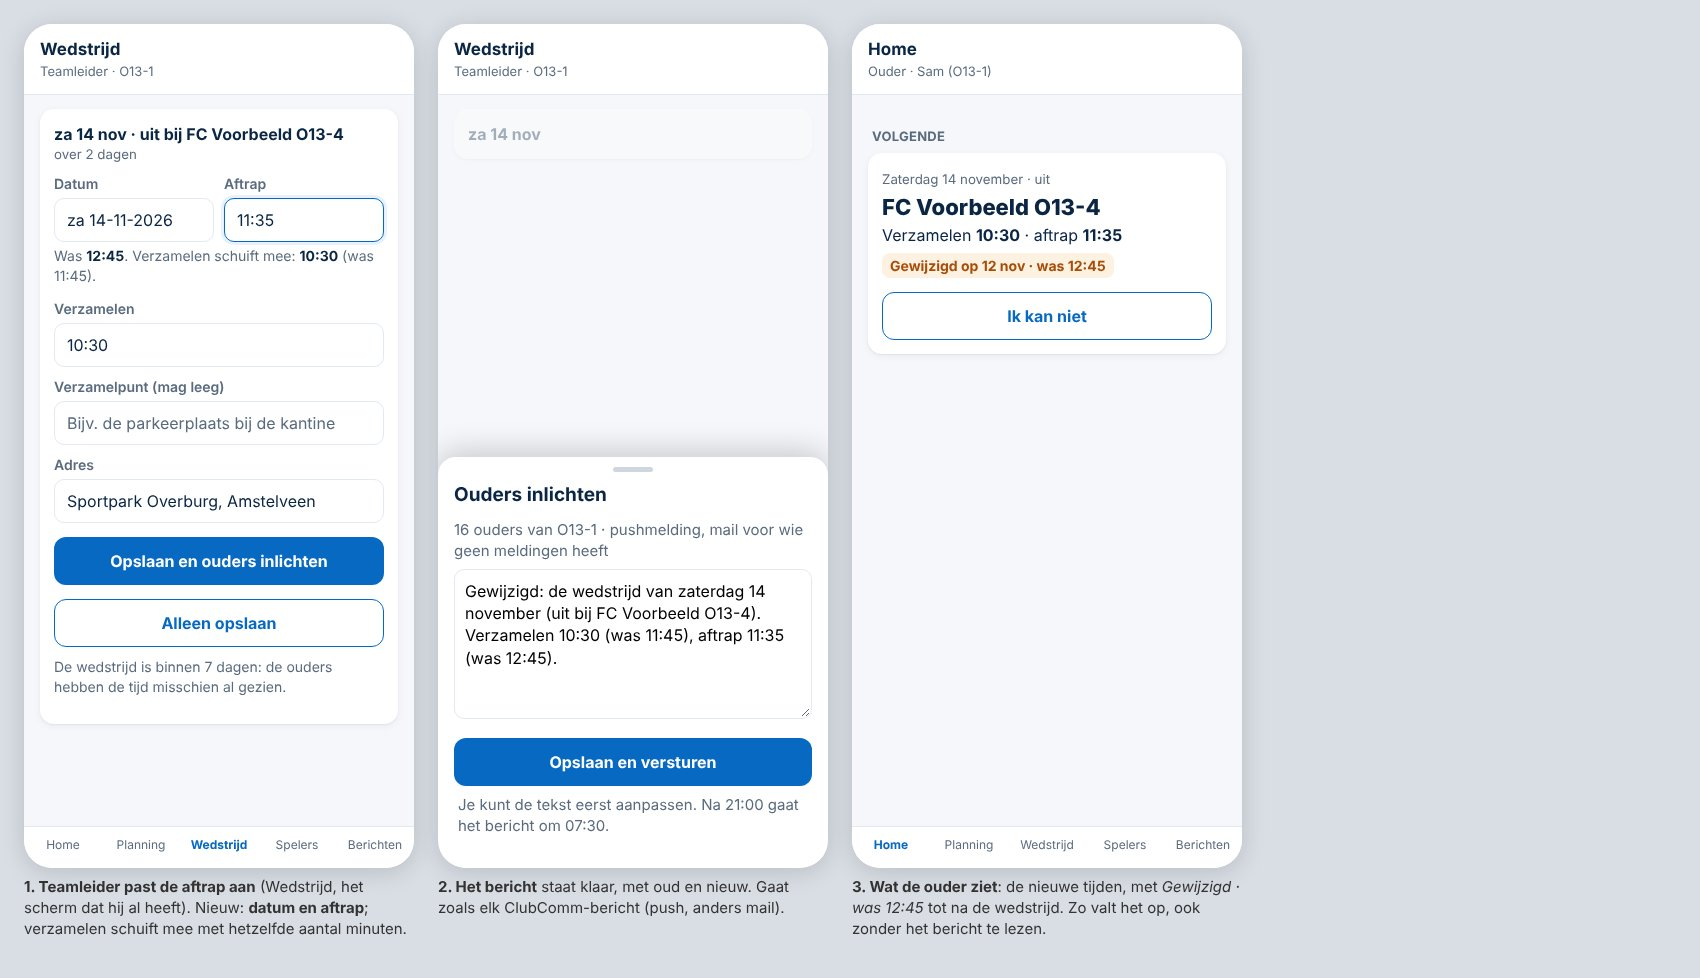
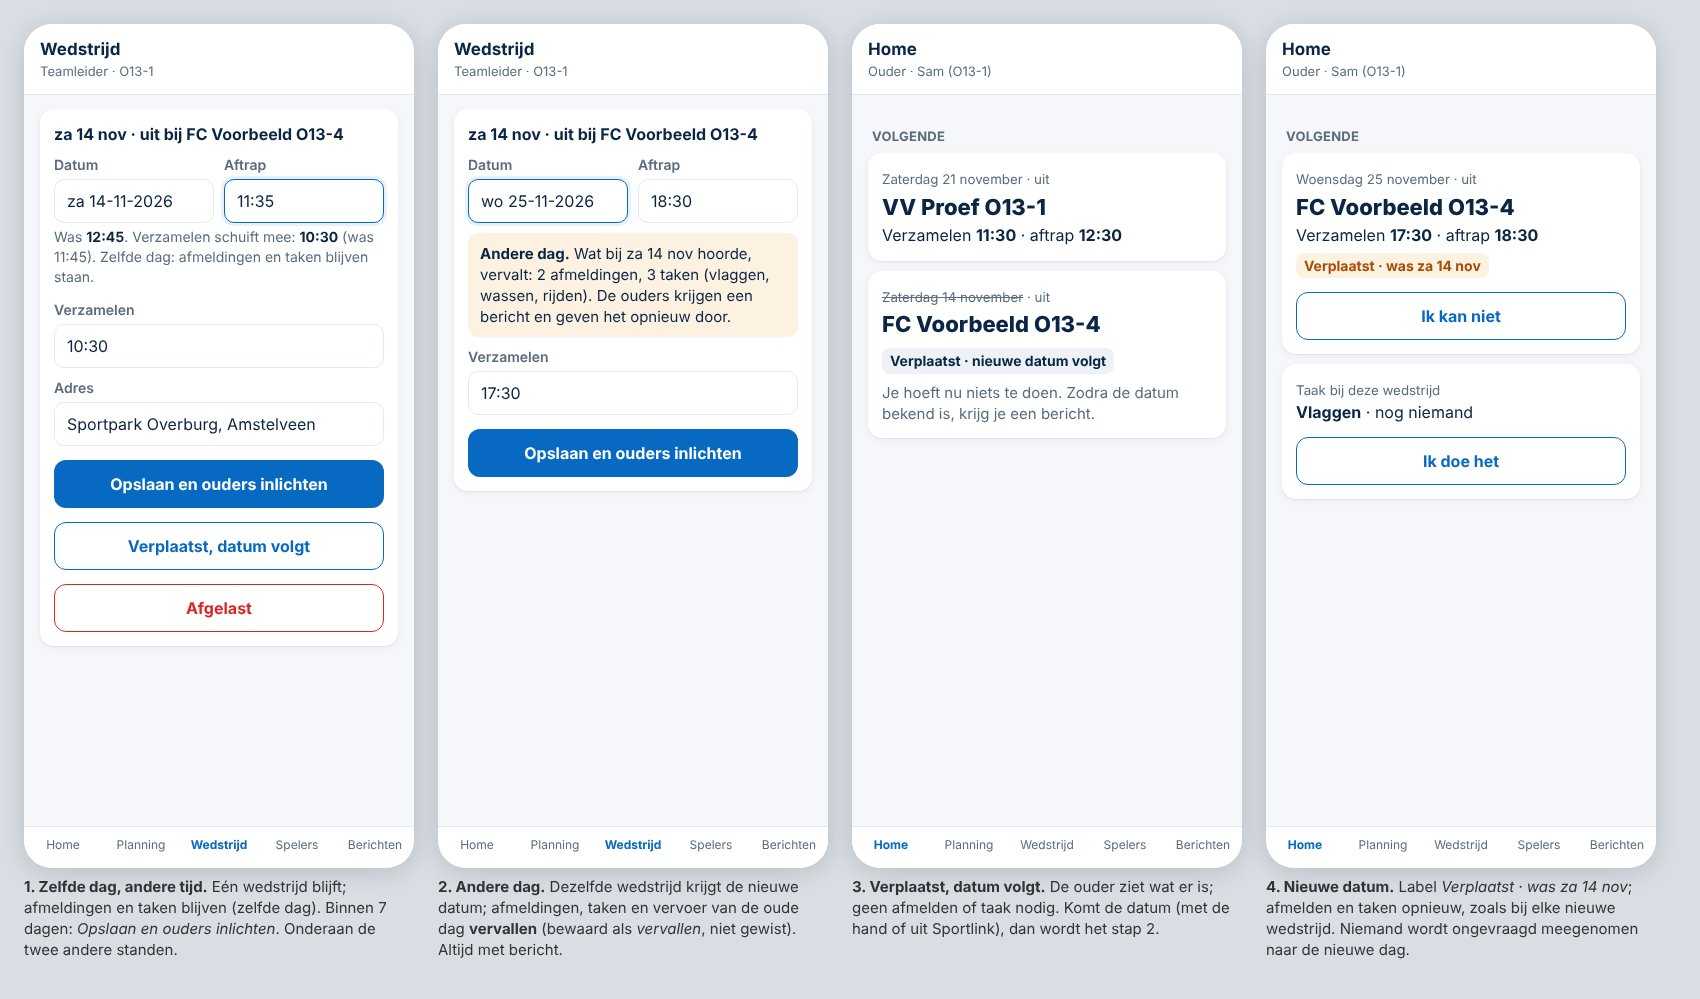
Voorstel D versie 3: één wedstrijd met drie standen (zelfde dag, andere dag/datum volgt, afgelast); gevonden gat in Aanpassen via Teams; stap 1 = maat L
Claude-Session: https://claude.ai/code/session_01JemqRo5kiX7AhhtzuggotQ

diff --git a/docs/onderzoek/sportlink-agenda/voorbeeld-stap1.html b/docs/onderzoek/sportlink-agenda/voorbeeld-stap1.html
@@ -1,6 +1,6 @@
 <!doctype html>
 <html lang="nl"><head><meta charset="utf-8"><meta name="viewport" content="width=device-width, initial-scale=1">
-<title>Voorbeeld: aftrap aanpassen door de teamleider</title>
+<title>Voorbeeld: wedstrijd verplaatsen en afgelasten (stap 1)</title>
 <style>
 /* Voorstel D: voorbeeld in de huidige stijl van de app; verzonnen club en namen */
 :root { --blauw: #0869c2; --blauw-l: #e7f2fe; --inkt: #0b2545; --zacht: #5b6b7f; --lijn: #e3e9f1; --grond: #f5f7fa; --groen: #137333; --groen-l: #e7f6ec; --rood: #dc2626; --oranje: #a84d08; }
@@ -65,43 +65,51 @@ h2 { font-size: 13px; letter-spacing: .02em; color: var(--zacht); margin: 18px 4
 .slot .tijd { text-align:center; font-size:64px; font-weight:300; } .slot .dag { text-align:center; opacity:.8; margin-bottom:30px; }
 .slot .melding { color:var(--inkt); }
 .linkje { color:var(--blauw); font-weight:600; font-size:15px; }
+.knop.rood { background:#fff; color:var(--rood); border:1.5px solid var(--rood); } .knoprij { display:grid; grid-template-columns:1fr 1fr; gap:8px; } .knoprij .knop { margin-top:8px; font-size:15px; }
+.info { background:#fdf1e1; border-radius:10px; padding:10px 12px; font-size:15px; margin-top:10px; } .doorstreep { text-decoration:line-through; color:var(--zacht); }
+.label2 { display:inline-block; margin-top:6px; font-size:14px; font-weight:700; color:var(--inkt); background:#eef2f6; border-radius:8px; padding:3px 8px; }
 </style></head><body>
 <div class="telefoons">
 <div><div class="tel">
   <div class="kop"><div><b>Wedstrijd</b><small>Teamleider · O13-1</small></div></div>
-  <div class="inhoud">
-    <div class="kaart form">
-      <div style="display:flex;gap:10px;align-items:center"><div><b>za 14 nov · uit bij FC Voorbeeld O13-4</b><small style="display:block;color:var(--zacht)">over 2 dagen</small></div></div>
-      <div class="twee"><div><label>Datum</label><div class="inp">za 14-11-2026</div></div><div><label>Aftrap</label><div class="inp aan">11:35</div></div></div>
-      <p class="hint">Was <b>12:45</b>. Verzamelen schuift mee: <b>10:30</b> (was 11:45).</p>
-      <label>Verzamelen</label><div class="inp">10:30</div>
-      <label>Verzamelpunt (mag leeg)</label><div class="inp" style="color:var(--zacht)">Bijv. de parkeerplaats bij de kantine</div>
-      <label>Adres</label><div class="inp">Sportpark Overburg, Amstelveen</div>
-      <div class="knop">Opslaan en ouders inlichten</div>
-      <div class="knop licht">Alleen opslaan</div>
-      <p class="hint" style="margin-top:10px">De wedstrijd is binnen 7 dagen: de ouders hebben de tijd misschien al gezien.</p>
-    </div>
-  </div><div class="nav"><span class="">Home</span><span class="">Planning</span><span class="aan">Wedstrijd</span><span class="">Spelers</span><span class="">Berichten</span></div>
-</div><p class="bijschrift"><b>1. Teamleider past de aftrap aan</b> (Wedstrijd, het scherm dat hij al heeft). Nieuw: <b>datum en aftrap</b>; verzamelen schuift mee met hetzelfde aantal minuten.</p></div><div><div class="tel">
+  <div class="inhoud"><div class="kaart form">
+    <b>za 14 nov · uit bij FC Voorbeeld O13-4</b>
+    <div class="twee"><div><label>Datum</label><div class="inp">za 14-11-2026</div></div><div><label>Aftrap</label><div class="inp aan">11:35</div></div></div>
+    <p class="hint">Was <b>12:45</b>. Verzamelen schuift mee: <b>10:30</b> (was 11:45). Zelfde dag: afmeldingen en taken blijven staan.</p>
+    <label>Verzamelen</label><div class="inp">10:30</div>
+    <label>Adres</label><div class="inp">Sportpark Overburg, Amstelveen</div>
+    <div class="knop">Opslaan en ouders inlichten</div>
+    <div class="knop licht">Verplaatst, datum volgt</div><div class="knop rood">Afgelast</div>
+  </div></div><div class="nav"><span class="">Home</span><span class="">Planning</span><span class="aan">Wedstrijd</span><span class="">Spelers</span><span class="">Berichten</span></div>
+</div><p class="bijschrift"><b>1. Zelfde dag, andere tijd.</b> Eén wedstrijd blijft; afmeldingen en taken blijven (zelfde dag). Binnen 7 dagen: <i>Opslaan en ouders inlichten</i>. Onderaan de twee andere standen.</p></div><div><div class="tel">
   <div class="kop"><div><b>Wedstrijd</b><small>Teamleider · O13-1</small></div></div>
-  <div class="inhoud" style="opacity:.35"><div class="kaart form"><b>za 14 nov</b></div></div>
-  <div class="sheet"><div class="greep"></div><h3>Ouders inlichten</h3>
-    <p class="uitleg" style="margin:0 0 8px">16 ouders van O13-1 · pushmelding, mail voor wie geen meldingen heeft</p>
-    <textarea>Gewijzigd: de wedstrijd van zaterdag 14 november (uit bij FC Voorbeeld O13-4).
-Verzamelen 10:30 (was 11:45), aftrap 11:35 (was 12:45).</textarea>
-    <div class="knop">Opslaan en versturen</div>
-    <p class="uitleg">Je kunt de tekst eerst aanpassen. Na 21:00 gaat het bericht om 07:30.</p>
-  </div>
-</div><p class="bijschrift"><b>2. Het bericht</b> staat klaar, met oud en nieuw. Gaat zoals elk ClubComm-bericht (push, anders mail).</p></div><div><div class="tel">
+  <div class="inhoud"><div class="kaart form">
+    <b>za 14 nov · uit bij FC Voorbeeld O13-4</b>
+    <div class="twee"><div><label>Datum</label><div class="inp aan">wo 25-11-2026</div></div><div><label>Aftrap</label><div class="inp">18:30</div></div></div>
+    <div class="info"><b>Andere dag.</b> Wat bij za 14 nov hoorde, vervalt: 2 afmeldingen, 3 taken (vlaggen, wassen, rijden). De ouders krijgen een bericht en geven het opnieuw door.</div>
+    <label>Verzamelen</label><div class="inp">17:30</div>
+    <div class="knop">Opslaan en ouders inlichten</div>
+  </div></div><div class="nav"><span class="">Home</span><span class="">Planning</span><span class="aan">Wedstrijd</span><span class="">Spelers</span><span class="">Berichten</span></div>
+</div><p class="bijschrift"><b>2. Andere dag.</b> Dezelfde wedstrijd krijgt de nieuwe datum; afmeldingen, taken en vervoer van de oude dag <b>vervallen</b> (bewaard als <i>vervallen</i>, niet gewist). Altijd met bericht.</p></div><div><div class="tel">
   <div class="kop"><div><b>Home</b><small>Ouder · Sam (O13-1)</small></div></div>
   <div class="inhoud">
     <h2>VOLGENDE</h2>
-    <div class="kaart" style="padding:14px"><small style="color:var(--zacht)">Zaterdag 14 november · uit</small>
+    <div class="kaart" style="padding:14px"><small style="color:var(--zacht)">Zaterdag 21 november · uit</small><div class="groot2">VV Proef O13-1</div><div>Verzamelen <b>11:30</b> · aftrap <b>12:30</b></div></div><div class="kaart" style="padding:14px;margin-top:10px"><small style="color:var(--zacht)"><span class="doorstreep">Zaterdag 14 november</span> · uit</small>
       <div class="groot2">FC Voorbeeld O13-4</div>
-      <div>Verzamelen <b>10:30</b> · aftrap <b>11:35</b></div>
-      <span class="gewijzigd">Gewijzigd op 12 nov · was 12:45</span>
-      <div class="knop licht">Ik kan niet</div>
+      <span class="label2">Verplaatst · nieuwe datum volgt</span>
+      <p class="uitleg" style="margin:8px 0 0">Je hoeft nu niets te doen. Zodra de datum bekend is, krijg je een bericht.</p>
     </div>
   </div><div class="nav"><span class="aan">Home</span><span class="">Planning</span><span class="">Wedstrijd</span><span class="">Spelers</span><span class="">Berichten</span></div>
-</div><p class="bijschrift"><b>3. Wat de ouder ziet</b>: de nieuwe tijden, met <i>Gewijzigd · was 12:45</i> tot na de wedstrijd. Zo valt het op, ook zonder het bericht te lezen.</p></div>
+</div><p class="bijschrift"><b>3. Verplaatst, datum volgt.</b> De ouder ziet wat er is; geen afmelden of taak nodig. Komt de datum (met de hand of uit Sportlink), dan wordt het stap 2.</p></div><div><div class="tel">
+  <div class="kop"><div><b>Home</b><small>Ouder · Sam (O13-1)</small></div></div>
+  <div class="inhoud">
+    <h2>VOLGENDE</h2>
+    <div class="kaart" style="padding:14px"><small style="color:var(--zacht)">Woensdag 25 november · uit</small>
+      <div class="groot2">FC Voorbeeld O13-4</div><div>Verzamelen <b>17:30</b> · aftrap <b>18:30</b></div>
+      <span class="gewijzigd">Verplaatst · was za 14 nov</span>
+      <div class="knop licht">Ik kan niet</div>
+    </div>
+    <div class="kaart" style="padding:14px;margin-top:10px"><small style="color:var(--zacht)">Taak bij deze wedstrijd</small><div><b>Vlaggen</b> · nog niemand</div><div class="knop licht">Ik doe het</div></div>
+  </div><div class="nav"><span class="aan">Home</span><span class="">Planning</span><span class="">Wedstrijd</span><span class="">Spelers</span><span class="">Berichten</span></div>
+</div><p class="bijschrift"><b>4. Nieuwe datum.</b> Label <i>Verplaatst · was za 14 nov</i>; afmelden en taken opnieuw, zoals bij elke nieuwe wedstrijd. Niemand wordt ongevraagd meegenomen naar de nieuwe dag.</p></div>
 </div></body></html>

diff --git a/docs/onderzoek/sportlink-agenda/voorbeeld.html b/docs/onderzoek/sportlink-agenda/voorbeeld.html
@@ -104,11 +104,11 @@ h2 { font-size: 13px; letter-spacing: .02em; color: var(--zacht); margin: 18px 4
     <div class="kaart">
       <div class="rij kol"><div class="t"><span class="tag">NIEUW IN SPORTLINK</span><b>wo 25 nov · thuis tegen Testclub O13-2</b><small>Aftrap 18:30 · beker</small></div>
         <div class="acties"><span class="knopje">Toevoegen</span><span class="knopje licht">Niet ons team</span></div></div>
-      <div class="rij kol"><div class="t"><span class="tag">STAAT NIET MEER IN SPORTLINK</span><b>za 21 nov · uit bij VV Proef O13-1</b><small>Misschien afgelast of verplaatst</small></div>
-        <div class="acties"><span class="knopje licht">Afgelasten</span><span class="knopje licht">Laat staan</span></div></div>
+      <div class="rij kol"><div class="t"><span class="tag">STAAT NIET MEER IN SPORTLINK</span><b>za 21 nov · uit bij VV Proef O13-1</b><small>Zonder reden uit de agenda. Wat is er aan de hand?</small></div>
+        <div class="acties"><span class="knopje licht">Verplaatst, datum volgt</span><span class="knopje licht">Afgelast</span><span class="knopje licht">Gaat door</span></div></div>
       <div class="rij kol oranje-r"><div class="t"><span class="tag">WEDSTRIJDAGENDA</span><b>Ophalen lukt al 2 nachten niet</b><small>De wedstrijden blijven zoals ze zijn. Vraag de clubbeheerder de link na te kijken.</small></div></div>
     </div>
     <p class="uitleg">Tijden en adressen staan al goed; hier staat alleen wat iemand moet beslissen. Meestal is dit leeg.</p>
   </div><div class="nav"><span class="aan">Home</span><span class="">Planning</span><span class="">Wedstrijd</span><span class="">Spelers</span><span class="">Berichten</span></div>
-</div><p class="bijschrift"><b>4. De teamleider waakt</b>: alleen <i>nieuw</i>, <i>verdwenen</i> en (zelden) <i>ophalen lukt niet</i>. Tijdswijzigingen gaan vanzelf.</p></div>
+</div><p class="bijschrift"><b>4. De teamleider waakt</b>: alleen <i>nieuw</i>, <i>verdwenen</i> en (zelden) <i>ophalen lukt niet</i>. Tijdswijzigingen en een uitdrukkelijk <i>afgelast</i> in Sportlink gaan vanzelf (met bericht binnen 7 dagen).</p></div>
 </div></body></html>

diff --git a/docs/onderzoek/sportlink-agenda/voorstel.md b/docs/onderzoek/sportlink-agenda/voorstel.md
@@ -10,7 +10,17 @@ Hoort bij `docs/onderzoek/wedstrijd-bijhouden/voorstel.md` (stap D).
 > - **De teamleider waakt.** Bij *Actie nodig* ziet hij alleen *nieuw*, *verdwenen* en *ophalen lukt niet*.
 > - **Eerst stap 1:** de teamleider kan zelf datum en aftrap aanpassen (verzamelen schuift mee), met *Opslaan en ouders inlichten* binnen 7 dagen. Voorbeeld `voorbeeld-stap1.html`. Dit is maat M, apart van D.
 >
-> Waar hieronder iets anders staat, geldt versie 2.
+> **Versie 3 (13-11): één wedstrijd met drie standen**, getoetst aan de vertrekpunten.
+> - **Zelfde dag, andere tijd:** de wedstrijd blijft, met afmeldingen en taken (het is dezelfde dag). Binnen 7 dagen gaat er een bericht naar de ouders.
+> - **Andere dag:** dezelfde wedstrijd krijgt de nieuwe datum. Afmeldingen, taken en vervoer van de oude dag **vervallen**: ze worden bewaard als *vervallen*, niet gewist (gegevensintegriteit, Besluit 149). Er gaat **altijd** een bericht naar de ouders, en ze geven het opnieuw door. Er wordt dus niemand ongevraagd meegenomen naar een andere dag.
+> - **Verplaatst, datum volgt:** dezelfde regel als bij een andere dag. Bij de ouder staat de oude datum doorgestreept met *Verplaatst · nieuwe datum volgt*. Dat is informatie, geen taak (Besluit 34): afmelden of een taak is dan niet nodig. Komt de datum, dan geldt *andere dag*.
+> - **Afgelast:** zoals nu, maar via Teams en via de teamleider hetzelfde: een bericht aan de ouders, en taken en vervoer vervallen.
+> - Geen tweede, dubbele wedstrijd (Principe 10). Het label *Verplaatst · was za 14 nov* vertelt wat er gebeurde.
+> - **Uit Sportlink:** een andere tijd of datum en een uitdrukkelijk *afgelast* gaan vanzelf. Alleen een wedstrijd die zonder reden verdwijnt, wordt een vraag aan de teamleider: *Verplaatst, datum volgt* · *Afgelast* · *Gaat door*. De teamleider is vrijwilliger, dus hij krijgt alleen die echte beslissingen (Besluit 149, *Draaien* = 0 min extra).
+> - **Gat dat nu al bestaat (gevonden 13-11):** *Aanpassen* via Teams (Besluit 168) neemt bij een andere dag afmeldingen, taken en vervoer mee, zonder bericht aan de ouders. Afgelast via Teams stuurt geen bericht, afgelast via de teamleider wel. Stap 1 lost beide op.
+> - **Maat van stap 1 = L**, niet M. Het raakt afmeldingen van ouders (persoonsgegevens laten vervallen) en het recht van de teamleider om de datum te wijzigen. Daarom gelden de rechtentest en de controle op clubscheiding. Een migratie is naar verwachting niet nodig, maar dat controleer ik eerst lokaal.
+>
+> Waar hieronder iets anders staat, geldt versie 3.
 
 ## 1. Aanleiding
 - De wedstrijd van za 14-11 (O13 talententeam, uit bij Sporting Martinus O13-4) is op voetbal.nl verplaatst: aftrap 12:45 → **11:35**. ClubComm wist dat niet. Op 13-11 met een eenmalig script aangepast (`supabase/scripts/2026-11-13_dcg_wedstrijd_1411_tijd.sql`, na akkoord). De ouders hebben daarvan nog geen bericht van ClubComm gekregen.
@@ -67,11 +77,12 @@ Er staat geen afgewezen idee over Sportlink of de wedstrijdagenda. Wel bekeken:
 4. **Later — B:** de Club.Dataservice-sleutel, zodra DCG die heeft. Dan werkt het voor alle teams zonder een link per team.
 
 ## Voorbeelden (13-11, versie 2)
-- `voorbeeld-stap1.html` / `.jpg` (stap 1, maat M):
-  1. de teamleider past datum en aftrap aan, verzamelen schuift mee;
-  2. *Ouders inlichten* met de tekst klaar;
-  3. de ouder ziet *Gewijzigd · was 12:45*.
-- `voorbeeld.html` / `.jpg` (voorstel D, versie 2):
+- `voorbeeld-stap1.html` / `.jpg` (stap 1, versie 3):
+  1. zelfde dag, andere tijd;
+  2. andere dag (afmeldingen en taken vervallen);
+  3. de ouder ziet *Verplaatst · nieuwe datum volgt*;
+  4. de nieuwe datum, met afmelden en taken opnieuw.
+- `voorbeeld.html` / `.jpg` (voorstel D, versie 3: de vraag bij een verdwenen wedstrijd heeft drie knoppen):
   1. één keer per seizoen instellen;
   2. binnen 7 dagen: vanzelf een bericht om 07:30;
   3. meer dan 7 dagen: stil bijgewerkt, met label;
